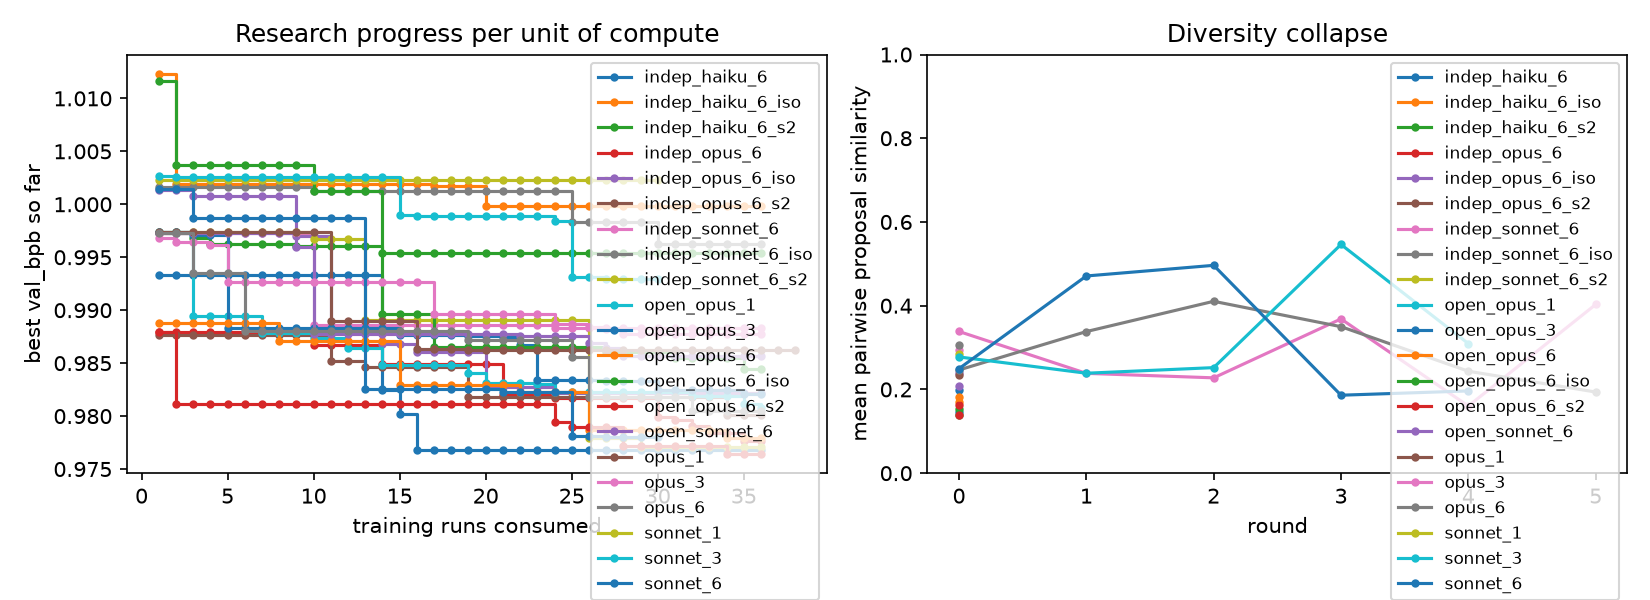
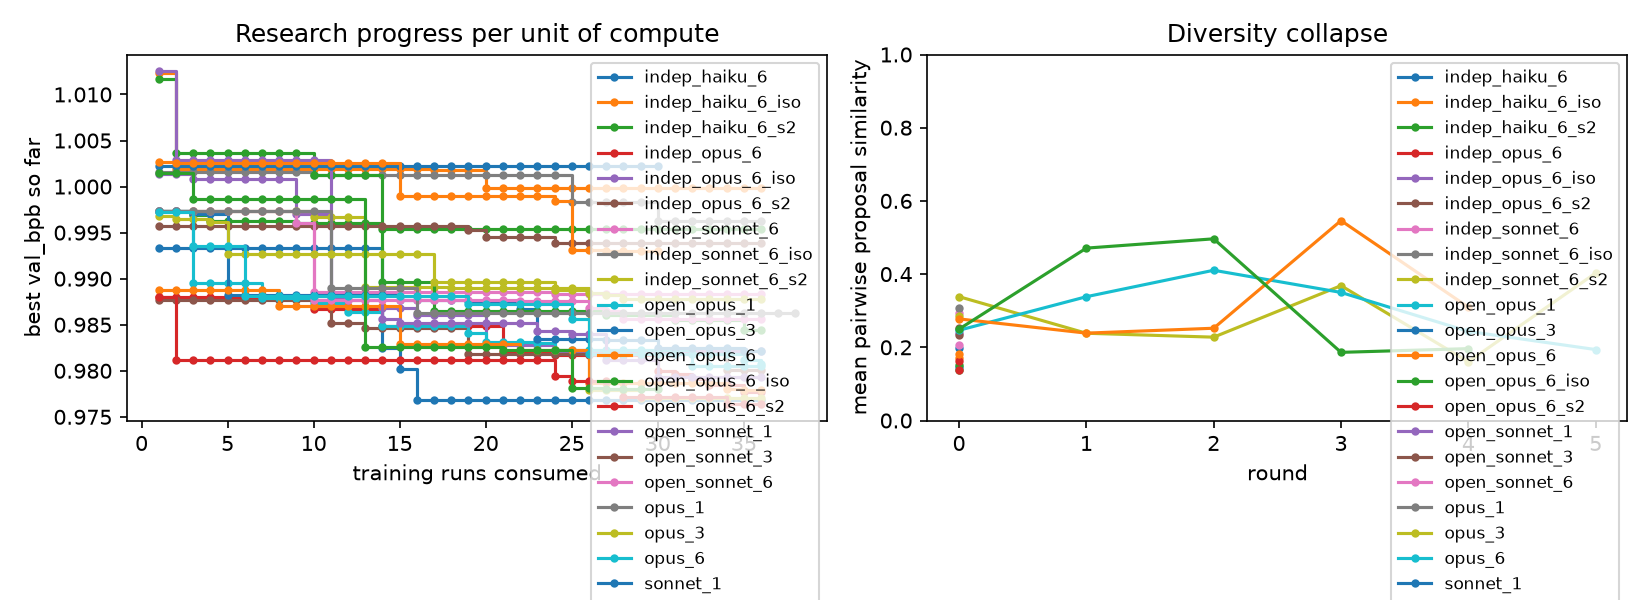
Analysis refresh with Riddhi's open_sonnet_1 and open_sonnet_3

diff --git a/analysis_out/summary.md b/analysis_out/summary.md
@@ -1,4 +1,4 @@
-# Results so far (2026-09-23 11:39)
+# Results so far (2026-09-23 13:47)
 
 **Read the correction at the top of case_studies.md first: the independent (indep_*) cells were not isolated (agents read the shared score table and peers' commits), so they do not measure the absence of communication.**
 
@@ -16,6 +16,8 @@
 - open_opus_6: OK — all invariants hold
 - open_opus_6_iso: OK — all invariants hold
 - open_opus_6_s2: OK — all invariants hold (1 noted deviation(s), see verify)
+- open_sonnet_1: OK — all invariants hold
+- open_sonnet_3: OK — all invariants hold
 - open_sonnet_6: OK — all invariants hold
 - opus_1: OK — all invariants hold (1 noted deviation(s), see verify)
 - opus_3: OK — all invariants hold (1 noted deviation(s), see verify)
@@ -41,6 +43,8 @@ open_opus_3         3    1   0.997359   0.982130  0.015229    36       1     2.8
 open_opus_6         6    1   0.997333   0.977896  0.019437    36       1     0.0   0.183    35.93
 open_opus_6_iso      6    1   1.012347   0.984417  0.027930    36       1     2.8   0.139    21.21
 open_opus_6_s2      6    1   0.997359   0.976408  0.020951    36       1     0.0   0.139    66.10
+open_sonnet_1       1    1   1.012531   0.979324  0.033207    36       1     2.8   0.000    12.30
+open_sonnet_3       3    1   1.012531   0.993862  0.018669    36       1     0.0   0.253    48.71
 open_sonnet_6       6    1   0.997333   0.985651  0.011682    36       1     8.3   0.207  1223.50
 opus_1              1    3   0.997359   0.986277  0.011082    36       8     2.6   0.000    69.29
 opus_3              3    2   0.997359   0.987792  0.009567    34       6     5.6   0.289   235.32
@@ -68,6 +72,8 @@ sonnet_6            6    1   1.014027   0.978041  0.035986    33       5     0.0
 | open_opus_6 | 36 | 0.978654 | 0.977973 | 0.977896 | 0.977896 |
 | open_opus_6_iso | 36 | 0.986010 | 0.985510 | 0.984417 | 0.984417 |
 | open_opus_6_s2 | 36 | 0.977171 | 0.976408 | 0.976408 | 0.976408 |
+| open_sonnet_1 | 36 | 0.981159 | 0.979324 | 0.979324 | 0.979324 |
+| open_sonnet_3 | 36 | 0.993862 | 0.993862 | 0.993862 | 0.993862 |
 | open_sonnet_6 | 36 | 0.985651 | 0.985651 | 0.985651 | 0.985651 |
 | opus_1 | 36 | 0.986277 | 0.986277 | 0.986277 | 0.986277 |
 | opus_3 | 34 | 0.987792 | 0.987792 | 0.987792 | 0.987792 |
@@ -75,40 +81,3 @@ sonnet_6            6    1   1.014027   0.978041  0.035986    33       5     0.0
 | sonnet_1 | 32 | 1.002279 | 1.002279 | 1.002279 | 1.002279 |
 | sonnet_3 | 32 | 0.992950 | 0.992950 | 0.992950 | 0.99295 |
 | sonnet_6 | 33 | 0.978041 | 0.978041 | 0.978041 | 0.978041 |
-
-## Sonnet open-protocol solo/three (Riddhi, 2026-09-23)
-
-- open_sonnet_1: OK — all invariants hold for results/open_sonnet_1
-- open_sonnet_3: OK — all invariants hold for results/open_sonnet_3
-
-```
-cell           agents  BoN   baseline      final      gain  runs  rounds  crash%  simil.  agent $
--------------------------------------------------------------------------------------------------
-open_sonnet_1       1    1   1.012531   0.979324  0.033207    36       1     2.8   0.000    12.30
-open_sonnet_3       3    1   1.012531   0.993862  0.018669    36       1     0.0   0.253    48.71
-```
-
-**Read gains, not finals, across boxes** (per section 8's rule for Eric's box). These two ran on Modal
-(`modal_app.py`, not committed), which measured baseline 1.012531 on the same pinned `autoresearch_commit`
-(`228791f`) that the main boxes measured at ~0.997333-0.997359 and Eric's box measured at 1.0140 -- a
-third distinct value, consistent with this being the same cross-box baseline variance already documented,
-not a Modal-specific problem. Notably it lands within noise-gate tolerance of section 9's isolated-rerun
-box (pod 4, 1.012347), so it isn't an outlier relative to the whole fleet, just off from the main boxes.
-
-Within-box gains (both cells share this baseline, so this comparison is clean):
-
-| cell | runs | final | gain |
-|---|---:|---:|---:|
-| open_sonnet_1 | 36 | 0.979324 | 0.033207 |
-| open_sonnet_3 | 36 | 0.993862 | 0.018669 |
-
-Solo beats three-agent by 0.0145 on this box -- the opposite direction from Eric's box, where six beat
-three beat one (section 8). Per section 8's own rule, a cross-box, single-seed comparison like this one
-says nothing about headcount on its own; it's a second data point, not a replication or a contradiction.
-`open_sonnet_6` (0.985651, gain 0.011682 on its own box, 0.997333) can't be joined into one ladder with
-these two without the same cross-box caveat applying.
-
-**Missing relative to the rest of `results/`:** no `claude_sessions/` (full raw session traces) and no
-`winner.diff` -- the Modal execution path didn't capture the former, and the git history for the latter
-lived only on the run's now-terminated ephemeral container. `log.jsonl`, `transcripts/`, and `report.md`
-are complete for both cells.
